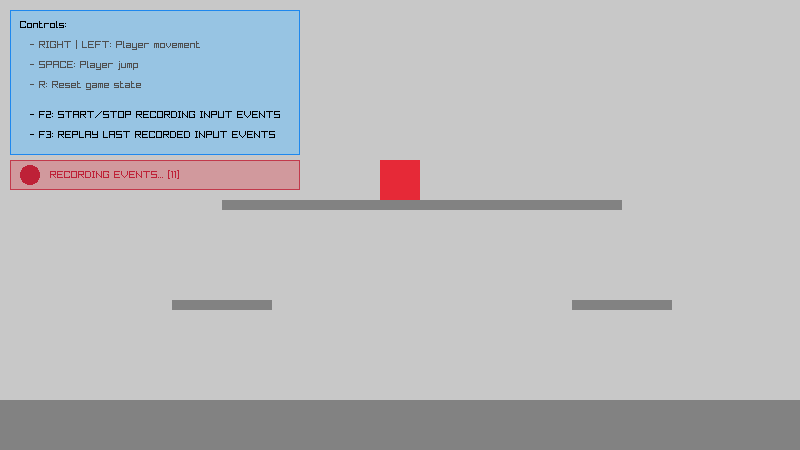
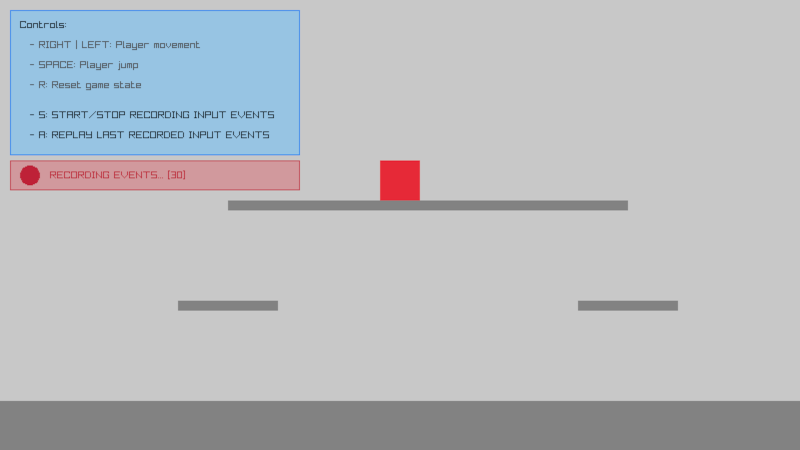
Changed keybinds for the automation example to avoid conflict with browser shortcuts (#3519)

diff --git a/examples/core/core_automation_events.c b/examples/core/core_automation_events.c
@@ -201,7 +201,7 @@ int main(void)
         //----------------------------------------------------------------------------------
         
         // Toggle events recording
-        if (IsKeyPressed(KEY_F2))
+        if (IsKeyPressed(KEY_S))
         {
             if (!eventPlaying)
             {
@@ -220,7 +220,7 @@ int main(void)
                 }
             }
         }
-        else if (IsKeyPressed(KEY_F3))
+        else if (IsKeyPressed(KEY_A))
         {
             if (!eventRecording && (aelist.count > 0))
             {
@@ -291,8 +291,8 @@ int main(void)
             DrawText("- SPACE: Player jump", 30, 60, 10, DARKGRAY);
             DrawText("- R: Reset game state", 30, 80, 10, DARKGRAY);
 
-            DrawText("- F2: START/STOP RECORDING INPUT EVENTS", 30, 110, 10, BLACK);
-            DrawText("- F3: REPLAY LAST RECORDED INPUT EVENTS", 30, 130, 10, BLACK);
+            DrawText("- S: START/STOP RECORDING INPUT EVENTS", 30, 110, 10, BLACK);
+            DrawText("- A: REPLAY LAST RECORDED INPUT EVENTS", 30, 130, 10, BLACK);
 
             // Draw automation events recording indicator
             if (eventRecording)
